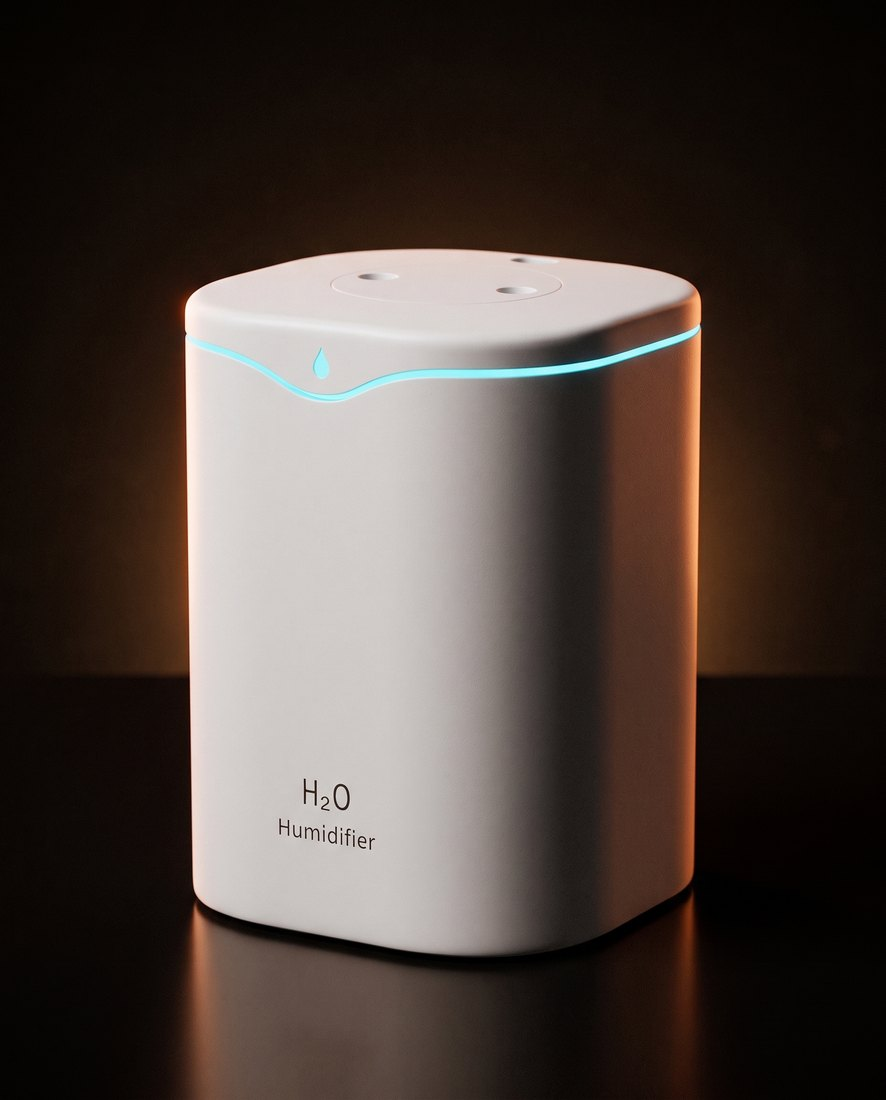
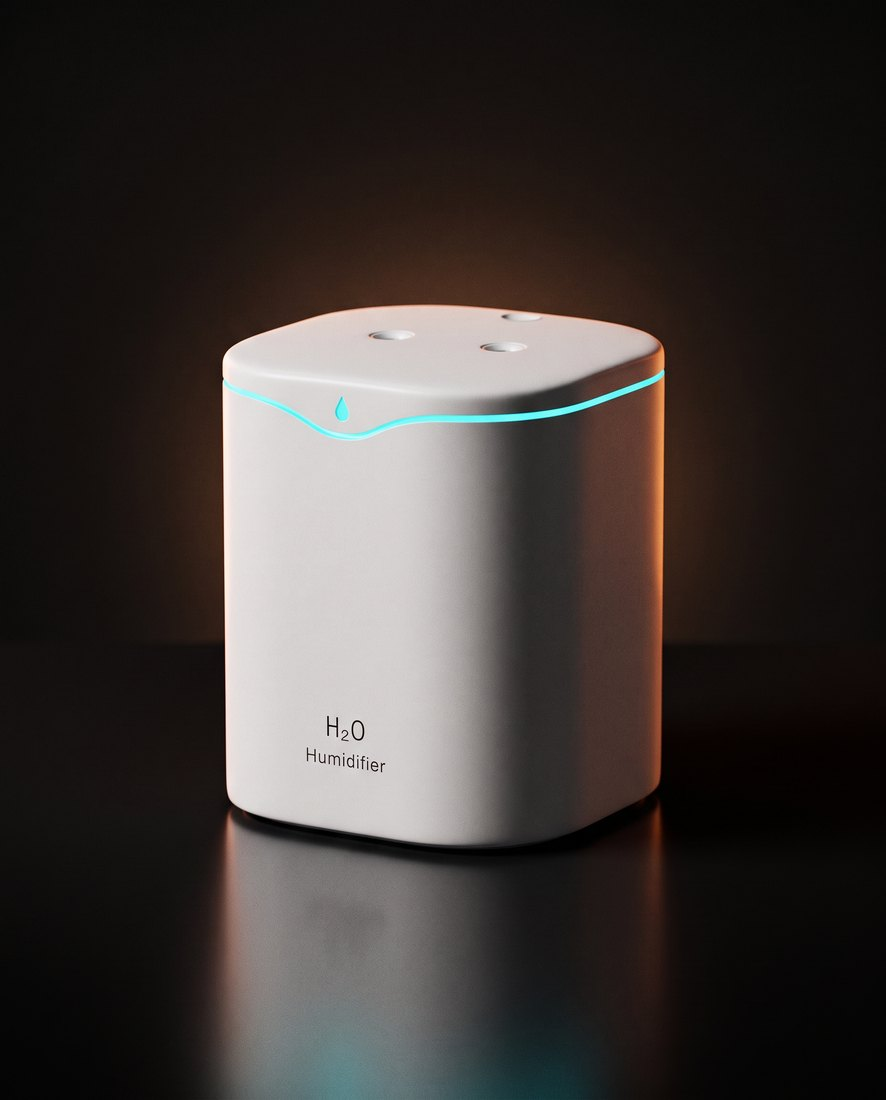
Stand the bottles up, square off the humidifier, cut stray gallery shots
The black set was shot with the box on its edge, which left every label
reading sideways; it is now a three-quarter view with the bottles upright.
The humidifier had been stretched tall — regenerated at its real squat
proportions.

Product galleries now only show that product. Diffuser room scenes lived
under the oil sets for no reason and are gone; the red box keeps its gift
scene, the humidifier keeps its three rooms.

Changed region(s): [[0.1219, 0.2164, 0.8837, 1.0]]

diff --git a/tovar/nabor-8-krasnyy.html b/tovar/nabor-8-krasnyy.html
@@ -13,7 +13,7 @@
 <meta name="theme-color" content="#140D0B">
 <link rel="icon" href="../assets/favicon.svg" type="image/svg+xml">
 <link rel="preload" href="../assets/fonts/Manrope-ExtraBold.woff2" as="font" type="font/woff2" crossorigin>
-<link rel="stylesheet" href="../assets/style.css?v=fc5b8623">
+<link rel="stylesheet" href="../assets/style.css?v=cecf088e">
 <style>:root{--accent:#E4453A;--accent2:#A81E24}</style>
 </head>
 <body>
@@ -50,7 +50,7 @@
   </div>
 </section>
 
-<section class="sec"><div class="wrap"><div class="ga reveal"><button class="ga-item" data-full="../assets/img/set8-box-front.jpg"><img src="../assets/img/set8-box-front.jpg" alt="Набор в красной коробке, 8 × 10 мл — фото 1" loading="lazy" decoding="async"></button><button class="ga-item" data-full="../assets/img/set8-open.jpg"><img src="../assets/img/set8-open.jpg" alt="Набор в красной коробке, 8 × 10 мл — фото 2" loading="lazy" decoding="async"></button><button class="ga-item" data-full="../assets/img/set8-open-angle.jpg"><img src="../assets/img/set8-open-angle.jpg" alt="Набор в красной коробке, 8 × 10 мл — фото 3" loading="lazy" decoding="async"></button><button class="ga-item" data-full="../assets/gen/scene-gift.jpg"><img src="../assets/gen/scene-gift.jpg" alt="Набор в красной коробке, 8 × 10 мл — фото 4" loading="lazy" decoding="async"></button></div></div></section>
+<section class="sec"><div class="wrap"><div class="ga reveal"><button class="ga-item" data-full="../assets/gen/scene-gift.jpg"><img src="../assets/gen/scene-gift.jpg" alt="Набор в красной коробке, 8 × 10 мл — фото 1" loading="lazy" decoding="async"></button></div></div></section>
 
 
   <section class="sec alt">

diff --git a/tovar/nabor-8-klassika.html b/tovar/nabor-8-klassika.html
@@ -13,7 +13,7 @@
 <meta name="theme-color" content="#140D0B">
 <link rel="icon" href="../assets/favicon.svg" type="image/svg+xml">
 <link rel="preload" href="../assets/fonts/Manrope-ExtraBold.woff2" as="font" type="font/woff2" crossorigin>
-<link rel="stylesheet" href="../assets/style.css?v=fc5b8623">
+<link rel="stylesheet" href="../assets/style.css?v=cecf088e">
 <style>:root{--accent:#E8B15C;--accent2:#B8863A}</style>
 </head>
 <body>
@@ -50,7 +50,7 @@
   </div>
 </section>
 
-<section class="sec"><div class="wrap"><div class="ga reveal"><button class="ga-item" data-full="../assets/img/black-box-a.jpg"><img src="../assets/img/black-box-a.jpg" alt="Классический набор, 8 × 10 мл — фото 1" loading="lazy" decoding="async"></button><button class="ga-item" data-full="../assets/img/black-bottles-a.jpg"><img src="../assets/img/black-bottles-a.jpg" alt="Классический набор, 8 × 10 мл — фото 2" loading="lazy" decoding="async"></button><button class="ga-item" data-full="../assets/img/black-set-a.jpg"><img src="../assets/img/black-set-a.jpg" alt="Классический набор, 8 × 10 мл — фото 3" loading="lazy" decoding="async"></button><button class="ga-item" data-full="../assets/img/black-stone.jpg"><img src="../assets/img/black-stone.jpg" alt="Классический набор, 8 × 10 мл — фото 4" loading="lazy" decoding="async"></button></div></div></section>
+
 
 
   <section class="sec alt">

diff --git a/assets/style.css b/assets/style.css
@@ -216,7 +216,7 @@ h3{font-size:clamp(16px,2vw,18px);letter-spacing:-.01em}
 .facts dt{font-size:13px;color:var(--dim)}
 .facts dd{font-size:13.5px;text-align:right;color:var(--text)}
 
-.ga{display:grid;grid-template-columns:repeat(2,1fr);gap:10px}
+.ga{display:grid;grid-template-columns:repeat(auto-fit,minmax(230px,1fr));gap:12px}
 .ga-item{border-radius:12px;overflow:hidden;border:1px solid var(--line);background:var(--ink-2);aspect-ratio:4/3;padding:0}
 .ga-item img{width:100%;height:100%;object-fit:cover;transition:transform .5s}
 .ga-item:hover img{transform:scale(1.06)}
@@ -284,7 +284,6 @@ h3{font-size:clamp(16px,2vw,18px);letter-spacing:-.01em}
 @media (min-width:640px){
   body{font-size:15.5px}
   .vals,.pcs,.scenes,.rvs{grid-template-columns:repeat(2,1fr)}
-  .ga{grid-template-columns:repeat(4,1fr)}
   .ftr-grid{grid-template-columns:1.4fr .8fr .8fr}
   .ftr-legal{grid-template-columns:auto 1fr;gap:24px;justify-content:space-between}
   .buy{grid-template-columns:1.2fr .8fr;align-items:center}

diff --git a/tovar/nabor-6-parfyum.html b/tovar/nabor-6-parfyum.html
@@ -13,7 +13,7 @@
 <meta name="theme-color" content="#140D0B">
 <link rel="icon" href="../assets/favicon.svg" type="image/svg+xml">
 <link rel="preload" href="../assets/fonts/Manrope-ExtraBold.woff2" as="font" type="font/woff2" crossorigin>
-<link rel="stylesheet" href="../assets/style.css?v=fc5b8623">
+<link rel="stylesheet" href="../assets/style.css?v=cecf088e">
 <style>:root{--accent:#3E9B7A;--accent2:#1F6350}</style>
 </head>
 <body>
@@ -50,7 +50,7 @@
   </div>
 </section>
 
-<section class="sec"><div class="wrap"><div class="ga reveal"><button class="ga-item" data-full="../assets/gen/scene-evening.jpg"><img src="../assets/gen/scene-evening.jpg" alt="Парфюмированный набор, 6 × 10 мл — фото 1" loading="lazy" decoding="async"></button></div></div></section>
+
 
 
   <section class="sec alt">

diff --git a/tovar/nabor-8-tsitrus.html b/tovar/nabor-8-tsitrus.html
@@ -13,7 +13,7 @@
 <meta name="theme-color" content="#140D0B">
 <link rel="icon" href="../assets/favicon.svg" type="image/svg+xml">
 <link rel="preload" href="../assets/fonts/Manrope-ExtraBold.woff2" as="font" type="font/woff2" crossorigin>
-<link rel="stylesheet" href="../assets/style.css?v=fc5b8623">
+<link rel="stylesheet" href="../assets/style.css?v=cecf088e">
 <style>:root{--accent:#E5A93C;--accent2:#B57420}</style>
 </head>
 <body>
@@ -50,7 +50,7 @@
   </div>
 </section>
 
-<section class="sec"><div class="wrap"><div class="ga reveal"><button class="ga-item" data-full="../assets/gen/scene-kitchen.jpg"><img src="../assets/gen/scene-kitchen.jpg" alt="Цитрус и хлопок, 8 × 10 мл — фото 1" loading="lazy" decoding="async"></button></div></div></section>
+
 
 
   <section class="sec alt">

diff --git a/tovar/filtry-12.html b/tovar/filtry-12.html
@@ -13,7 +13,7 @@
 <meta name="theme-color" content="#140D0B">
 <link rel="icon" href="../assets/favicon.svg" type="image/svg+xml">
 <link rel="preload" href="../assets/fonts/Manrope-ExtraBold.woff2" as="font" type="font/woff2" crossorigin>
-<link rel="stylesheet" href="../assets/style.css?v=fc5b8623">
+<link rel="stylesheet" href="../assets/style.css?v=cecf088e">
 <style>:root{--accent:#7FA8C4;--accent2:#4A748F}</style>
 </head>
 <body>

diff --git a/tovar/filtry-6.html b/tovar/filtry-6.html
@@ -13,7 +13,7 @@
 <meta name="theme-color" content="#140D0B">
 <link rel="icon" href="../assets/favicon.svg" type="image/svg+xml">
 <link rel="preload" href="../assets/fonts/Manrope-ExtraBold.woff2" as="font" type="font/woff2" crossorigin>
-<link rel="stylesheet" href="../assets/style.css?v=fc5b8623">
+<link rel="stylesheet" href="../assets/style.css?v=cecf088e">
 <style>:root{--accent:#7FA8C4;--accent2:#4A748F}</style>
 </head>
 <body>

diff --git a/tovar/nabor-6-banya.html b/tovar/nabor-6-banya.html
@@ -13,7 +13,7 @@
 <meta name="theme-color" content="#140D0B">
 <link rel="icon" href="../assets/favicon.svg" type="image/svg+xml">
 <link rel="preload" href="../assets/fonts/Manrope-ExtraBold.woff2" as="font" type="font/woff2" crossorigin>
-<link rel="stylesheet" href="../assets/style.css?v=fc5b8623">
+<link rel="stylesheet" href="../assets/style.css?v=cecf088e">
 <style>:root{--accent:#E86A2B;--accent2:#A9401A}</style>
 </head>
 <body>

diff --git a/tovar/uvlazhnitel.html b/tovar/uvlazhnitel.html
@@ -13,7 +13,7 @@
 <meta name="theme-color" content="#140D0B">
 <link rel="icon" href="../assets/favicon.svg" type="image/svg+xml">
 <link rel="preload" href="../assets/fonts/Manrope-ExtraBold.woff2" as="font" type="font/woff2" crossorigin>
-<link rel="stylesheet" href="../assets/style.css?v=fc5b8623">
+<link rel="stylesheet" href="../assets/style.css?v=cecf088e">
 <style>:root{--accent:#4C9BD6;--accent2:#2A6A99}</style>
 </head>
 <body>

diff --git a/catalog.html b/catalog.html
@@ -13,7 +13,7 @@
 <meta name="theme-color" content="#140D0B">
 <link rel="icon" href="assets/favicon.svg" type="image/svg+xml">
 <link rel="preload" href="assets/fonts/Manrope-ExtraBold.woff2" as="font" type="font/woff2" crossorigin>
-<link rel="stylesheet" href="assets/style.css?v=fc5b8623">
+<link rel="stylesheet" href="assets/style.css?v=cecf088e">
 </head>
 <body>
 <a class="skip" href="#main">К содержимому</a>

diff --git a/chestno.html b/chestno.html
@@ -13,7 +13,7 @@
 <meta name="theme-color" content="#140D0B">
 <link rel="icon" href="assets/favicon.svg" type="image/svg+xml">
 <link rel="preload" href="assets/fonts/Manrope-ExtraBold.woff2" as="font" type="font/woff2" crossorigin>
-<link rel="stylesheet" href="assets/style.css?v=fc5b8623">
+<link rel="stylesheet" href="assets/style.css?v=cecf088e">
 </head>
 <body>
 <a class="skip" href="#main">К содержимому</a>

diff --git a/index.html b/index.html
@@ -13,7 +13,7 @@
 <meta name="theme-color" content="#140D0B">
 <link rel="icon" href="assets/favicon.svg" type="image/svg+xml">
 <link rel="preload" href="assets/fonts/Manrope-ExtraBold.woff2" as="font" type="font/woff2" crossorigin>
-<link rel="stylesheet" href="assets/style.css?v=fc5b8623">
+<link rel="stylesheet" href="assets/style.css?v=cecf088e">
 </head>
 <body>
 <a class="skip" href="#main">К содержимому</a>
